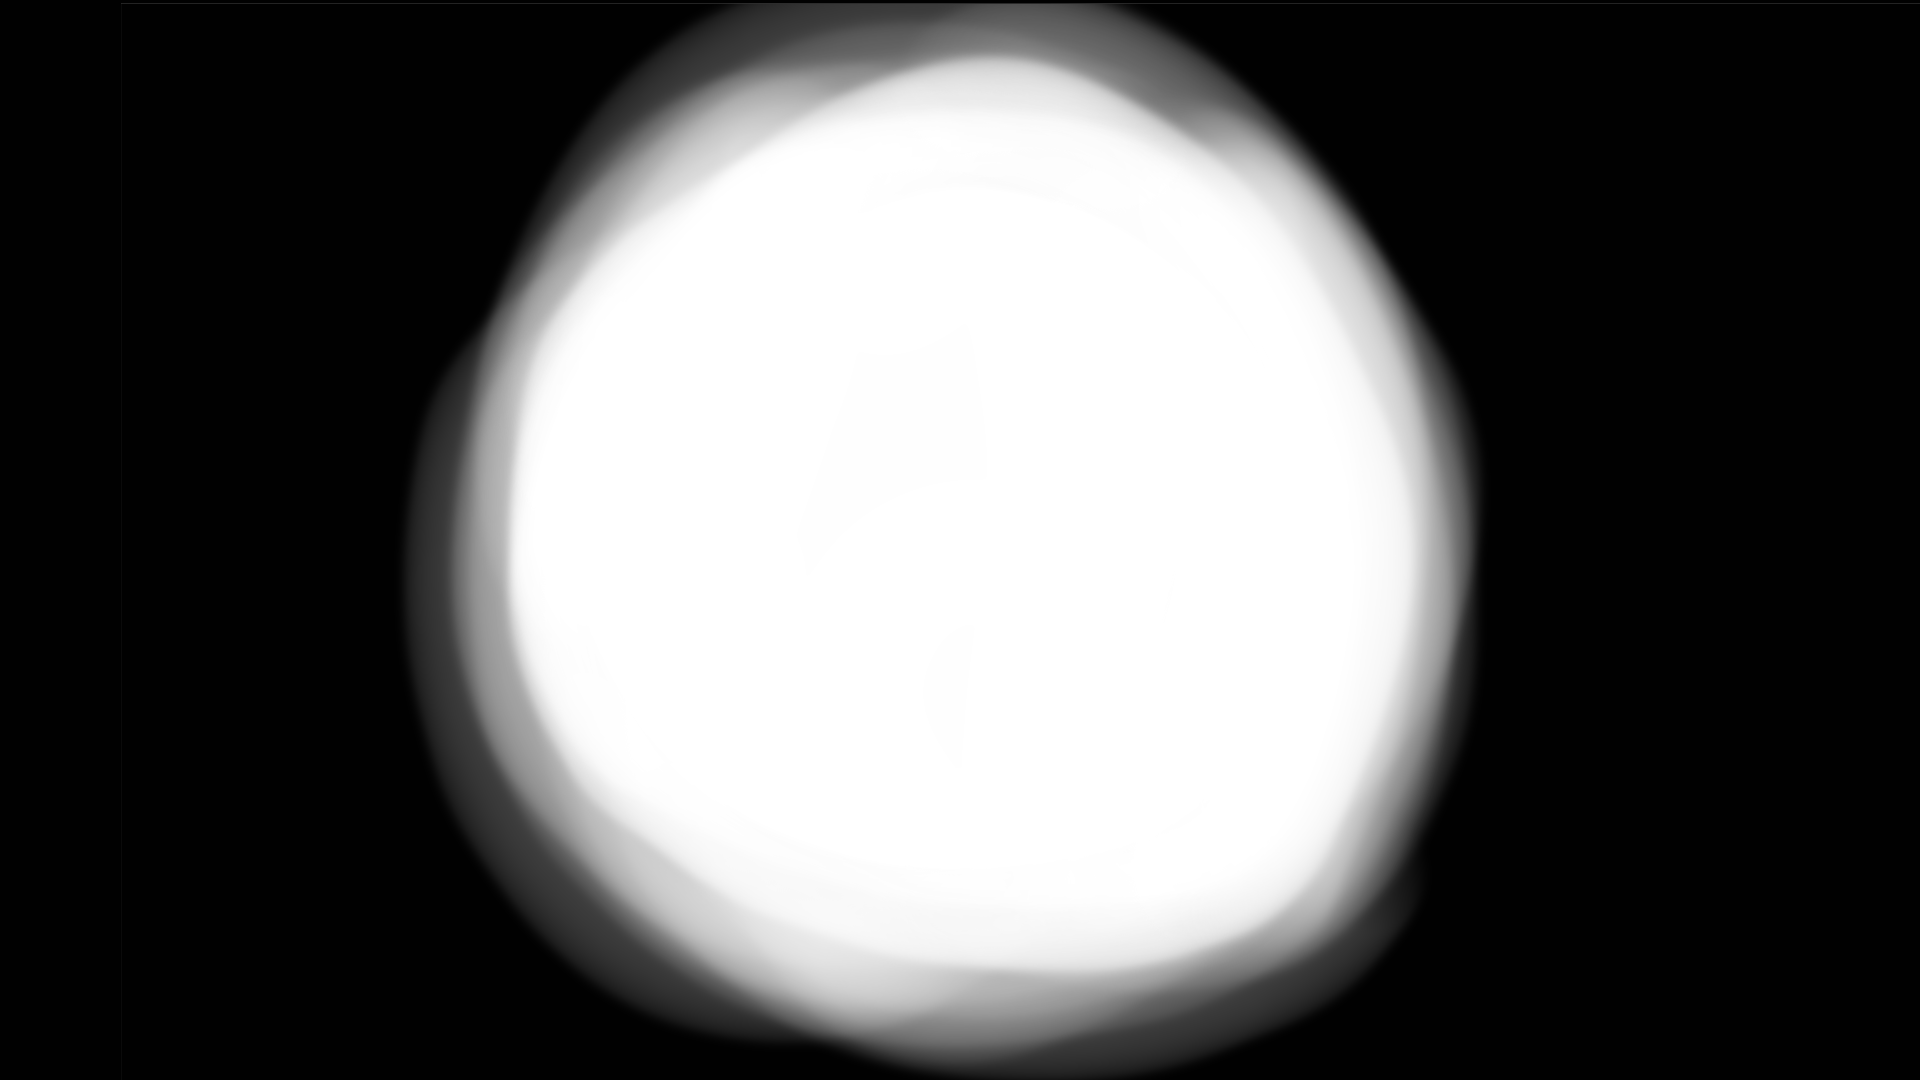
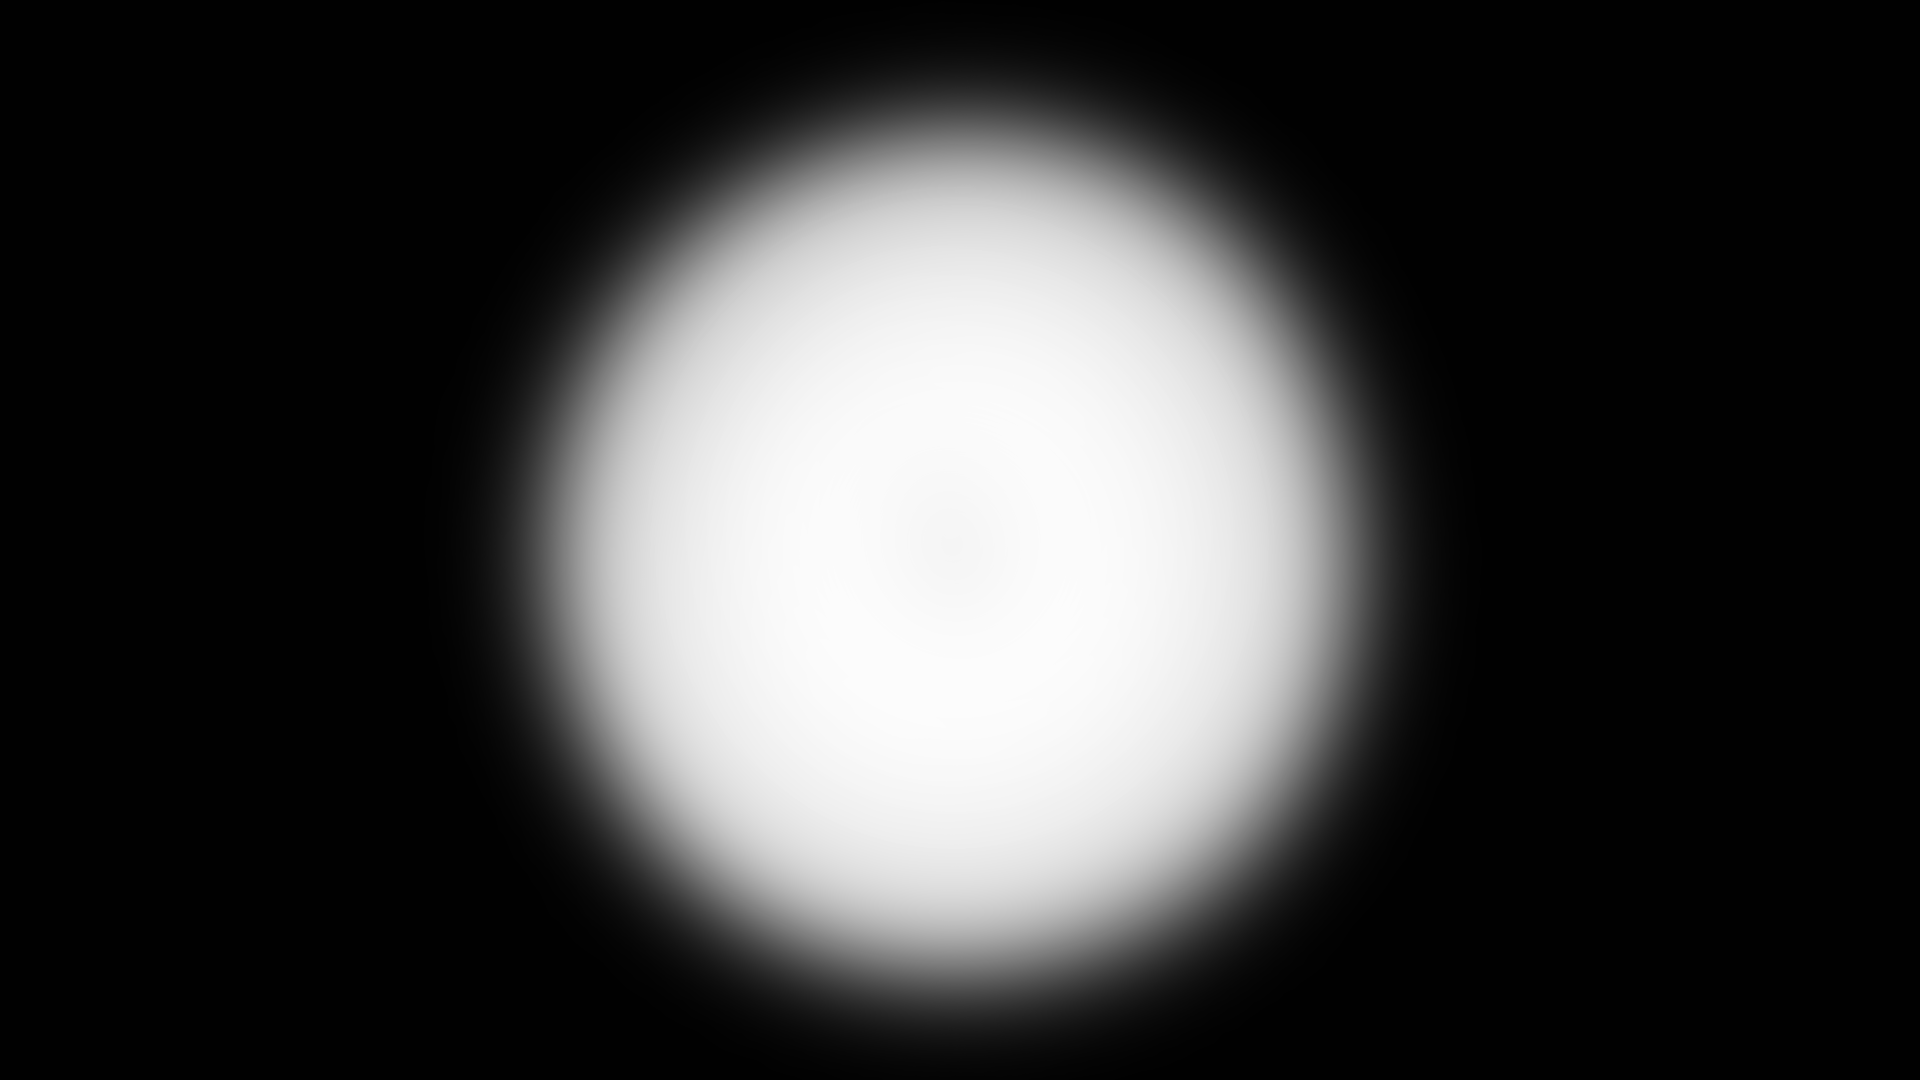
Collsion_Detection

diff --git a/src/main/java/GameEngine/Frames/Game.java b/src/main/java/GameEngine/Frames/Game.java
@@ -3,6 +3,7 @@ package GameEngine.Frames;
 import GameEngine.Background.Background;
 import GameEngine.Frame;
 import GameEngine.UI.UI;
+import GameEngine.World.Entity;
 import GameEngine.World.Entitys.Astroid;
 import GameEngine.World.Entitys.Fog;
 import GameEngine.World.Entitys.Player;
@@ -33,8 +34,10 @@ public class Game extends Frame implements Runnable{
         p.setZ_index(-2);
         p.setX(0);
         p.setY(0);
-        p.setH(40);
-        p.setW(30);
+        p.setH(64);
+        p.setW(64);
+        p.setCanCollide(true);
+        p.setHitbox(Entity.HITBOX.rect);
 
         f = new Fog();
         f.setH(1080);
@@ -46,6 +49,7 @@ public class Game extends Frame implements Runnable{
         a.setY(-250);
         a.setH(100);
         a.setW(100);
+        a.setCanCollide(true);
         this.getWorld().addEntity(a);
         this.getWorld().addEntity(p);
         this.getWorld().addEntity(f);
@@ -99,17 +103,18 @@ public class Game extends Frame implements Runnable{
 
             while (true) {
                 double accX = 0,  accY = 0;
+                double responsive = 0.01;
                 if (pd) {
-                   accX += 1;
+                   accX += 1*responsive;
                 }
                 if (pa) {
-                    accX -= 1;
+                    accX -= 1*responsive;
                 }
                 if (pw) {
-                    accY -= 1;
+                    accY -= 1*responsive;
                 }
                 if (ps) {
-                    accY += 1;
+                    accY += 1*responsive;
                 }
                 this.p.addForce(accX, accY);
 
@@ -119,6 +124,18 @@ public class Game extends Frame implements Runnable{
                 this.getWorld().getCamera().setY(p.getY());
                 f.setX(p.getX());
                 f.setY(p.getY());
+
+                for (Entity e1: this.getWorld().getEntities()) {
+                    if (e1.isCanCollide()){
+                        for (Entity e2 : this.getWorld().getEntities()) {
+                            if (e1 != e2 && e2.isCanCollide()) {
+                                if (e1.isColliding(e2)) {
+                                    e1.onColliding(e2);
+                                }
+                            }
+                        }
+                    }
+                }
 
                 Thread.sleep(1);
             }

diff --git a/src/main/java/GameEngine/World/Entity.java b/src/main/java/GameEngine/World/Entity.java
@@ -9,9 +9,18 @@ public class Entity implements Comparable<Entity>{
         circle
     }
 
+
+    public void setHitbox(HITBOX hitbox) {
+        this.hitbox = hitbox;
+    }
+
     HITBOX hitbox = HITBOX.circle;
 
     private double x, y;
+
+
+
+    boolean canCollide = false;
     int z_index = 0;
     int w, h;
 
@@ -54,6 +63,17 @@ public class Entity implements Comparable<Entity>{
         this.setY(this.getY() + velY);
     }
 
+    public boolean isCanCollide() {
+        return canCollide;
+    }
+
+    public void setCanCollide(boolean canCollide) {
+        this.canCollide = canCollide;
+    }
+
+    public void onColliding(Entity e) {
+
+    }
 
     public boolean isColliding(Entity e) {
         if (this.hitbox == HITBOX.circle && e.hitbox == HITBOX.circle) {
@@ -71,10 +91,33 @@ public class Entity implements Comparable<Entity>{
                     e1Y < e2Y + e.getH() &&
                     e1Y + this.getH() > e2Y);
         } else {
+            Entity Circle = this;
+            Entity Rect = e;
+            if (this.hitbox == HITBOX.rect) {
+                Rect = this;
+                Circle = e;
+            }
+
+
+            double distanceX = Math.abs(Circle.getX() - Rect.getX());
+            double distanceY = Math.abs(Circle.getY() - Rect.getY());
+            /*System.out.println("CX:" + Circle.getX());
+            System.out.println("CY:" + Circle.getY());
+            System.out.println("RX:" + Rect.getX());
+            System.out.println("RY:" + Rect.getY());
+            System.out.println("Dist X:" + distanceX);
+            System.out.println("Dist Y:" + distanceY);
+            System.out.println("Dist XFull:" + (Rect.getW()/2 + Circle.getW()));
+            System.out.println("Dist YFull:" + (Rect.getH()/2 + Circle.getH()));*/
+            if (distanceX > (Rect.getW()/2 + Circle.getW()/2)) { return false; }
+            if (distanceY > (Rect.getH()/2 + Circle.getH()/2)) { return false; }
+            if (distanceX <= (Rect.getW()/2)) { return true; }
+            if (distanceY <= (Rect.getW()/2)) { return true; }
+            double cornerDistanceSq = Math.pow(distanceX - Rect.getW()/2, 2) +
+                    Math.pow(distanceY - Rect.getH()/2, 2);
+            return (cornerDistanceSq <= (Math.pow(Circle.getH(), 2)));
 
         }
-
-        return false;
     }
 
     /*

diff --git a/src/main/java/GameEngine/World/Entitys/Player.java b/src/main/java/GameEngine/World/Entitys/Player.java
@@ -8,6 +8,10 @@ import javafx.scene.shape.Polygon;
 public class Player extends Entity {
 
 
+    @Override
+    public void onColliding(Entity e) {
+        System.out.println("Ouch Astroid");
+    }
 
     @Override
     public void render(GraphicsContext gc, int cx, int cy, int cw, int ch, int w, int h, int mx, int my) {
@@ -22,8 +26,8 @@ public class Player extends Entity {
         tempX = (int)((double)tempX * factorX);
         tempY = (int)((double)tempY * factorY);
 
-        int tempW = (int)((double) this.getW() * factorX);
-        int tempH = (int)((double) this.getH() * factorY);
+        double tempW = ((double) this.getW() * factorX);
+        double tempH = ((double) this.getH() * factorY);
 
         double[] playerModelX =  {
                 -(tempW/2),
@@ -48,8 +52,9 @@ public class Player extends Entity {
         }
 
         gc.translate(tempX, tempY);
-        gc.rotate(angle);
-        gc.fillPolygon(playerModelX, playerModelY, 3);
+        //gc.rotate(angle);
+        //gc.fillPolygon(playerModelX, playerModelY, 3);
+        gc.fillRect(-tempW/2, -tempH/2, tempW, tempH);
         gc.restore();
         //gc.fillRect(tempX - (tempW/2), tempY - (tempH/2), tempW, tempH);
     }

diff --git a/src/main/java/GameEngine/World/Entitys/Astroid.java b/src/main/java/GameEngine/World/Entitys/Astroid.java
@@ -18,12 +18,12 @@ public class Astroid extends Entity {
         tempX = (int)((double)tempX * factorX);
         tempY = (int)((double)tempY * factorY);
 
-        int tempW = (int)((double) this.getW() * factorX);
-        int tempH = (int)((double) this.getH() * factorY);
+        double tempW = ((double) this.getW() * factorX);
+        double tempH = ((double) this.getH() * factorY);
 
 
         gc.translate(tempX, tempY);
-        gc.fillOval(-tempW/2, -tempH/2, tempW, tempH);
+        gc.fillOval(-tempW/2.0, -tempH/2.0, tempW, tempH);
         gc.restore();
         //gc.fillRect(tempX - (tempW/2), tempY - (tempH/2), tempW, tempH);
     }

diff --git a/src/main/java/Viewer/Renderer.java b/src/main/java/Viewer/Renderer.java
@@ -124,7 +124,7 @@ public class Renderer{
 
                 Camera c = frame.getWorld().getCamera();
 
-                ArrayList<Entity> entities = frame.getWorld().getEntities();
+                ArrayList<Entity> entities = (ArrayList<Entity>)frame.getWorld().getEntities().clone();
                 Collections.sort(entities);
 
                 for (Entity e : entities) {
